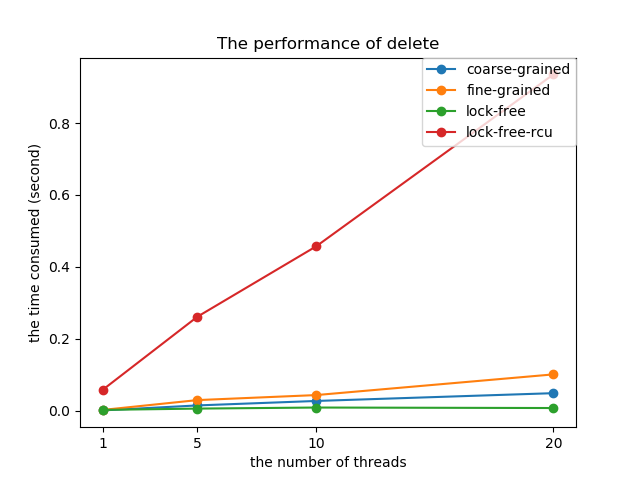
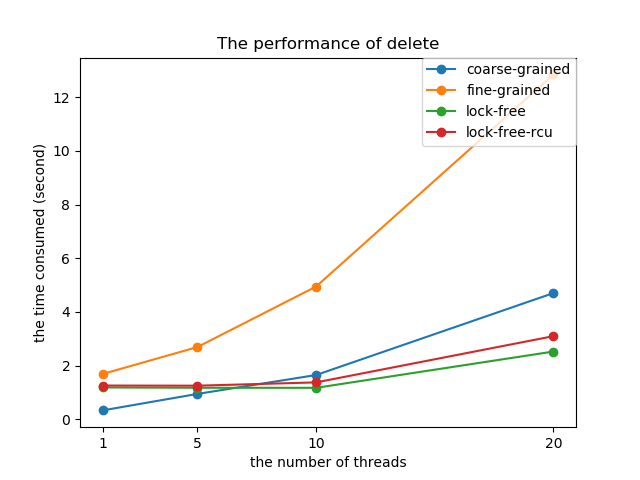
change the method of delete performance test

diff --git a/list/result_report/pic.py b/list/result_report/pic.py
@@ -12,21 +12,21 @@ x = [1, 5, 10, 20]
 #fname = 'Add_to_list_performance.png'
 
 # delete performance
-#coarse = [0.001204, 0.01505, 0.02744, 0.049104]
-#fine = [0.002461, 0.029858, 0.043798, 0.101315]
-#lock_free = [0.002609, 0.006219, 0.009167, 0.007794]
-#lock_free_rcu = [0.058134, 0.261741, 0.457155, 0.935205]
-#title = 'The performance of delete'
-#fname = 'Delete_to_list_performance.png'
+coarse = [0.332658, 0.946826, 1.65139, 4.7045]
+fine = [1.68914, 2.69389, 4.9484, 12.8524]
+lock_free = [1.1877, 1.17583, 1.17385, 2.52614]
+lock_free_rcu = [1.25902, 1.25339, 1.3765, 3.09896]
+title = 'The performance of delete'
+fname = 'Delete_to_list_performance.png'
 
 # hybird performance
-x = [5, 10, 15]
-coarse = [0.4399, 0.9230, 1.2607]
-fine = [0.4334, 1.0120, 1.6584]
-lock_free = [0.2863, 0.3872, 0.4797]
-lock_free_rcu = [0.2906, 0.3610, 0.4648]
-title = 'The performance of mixed operation'
-fname = 'mixed_op_to_list_performance.png'
+#x = [5, 10, 15]
+#coarse = [0.4399, 0.9230, 1.2607]
+#fine = [0.4334, 1.0120, 1.6584]
+#lock_free = [0.2863, 0.3872, 0.4797]
+#lock_free_rcu = [0.2906, 0.3610, 0.4648]
+#title = 'The performance of mixed operation'
+#fname = 'mixed_op_to_list_performance.png'
 
 plt.plot(x, coarse, marker='o', label='coarse-grained')
 plt.plot(x, fine, marker='o', label='fine-grained')

diff --git a/list/coarse_grained_lock_list/coarse_lock_list_test.cpp b/list/coarse_grained_lock_list/coarse_lock_list_test.cpp
@@ -325,7 +325,7 @@ void Test_performance_rm(const int n_thread) {
     }
 
     pthread_t* tid = new pthread_t[n_thread];
-    ThreadArgv argv = ThreadArgv(&l, 1, 10000);
+    ThreadArgv argv = ThreadArgv(&l, 10000, 1);
 
     timeval begin;
     timeval end;

diff --git a/list/fine_grained_lock_list/fine_grained_lock_list_test.cpp b/list/fine_grained_lock_list/fine_grained_lock_list_test.cpp
@@ -324,7 +324,7 @@ void Test_performance_rm(const int n_thread) {
     }
 
     pthread_t* tid = new pthread_t[n_thread];
-    ThreadArgv argv = ThreadArgv(&l, 1, 10000);
+    ThreadArgv argv = ThreadArgv(&l, 10000, 1);
 
     timeval begin;
     timeval end;

diff --git a/list/lock_free_list/lock_free_list_test.cpp b/list/lock_free_list/lock_free_list_test.cpp
@@ -338,7 +338,7 @@ void Test_performance_rm(const int n_thread) {
     }
 
     pthread_t* tid = new pthread_t[n_thread];
-    ThreadArgv argv = ThreadArgv(&l, 1, 10000);
+    ThreadArgv argv = ThreadArgv(&l, 10000, 1);
 
     timeval begin;
     timeval end;

diff --git a/list/lock_free_rcu_list/lock_free_list_test.cpp b/list/lock_free_rcu_list/lock_free_list_test.cpp
@@ -338,7 +338,7 @@ void Test_performance_rm(const int n_thread) {
     }
 
     pthread_t* tid = new pthread_t[n_thread];
-    ThreadArgv argv = ThreadArgv(&l, 1, 10000);
+    ThreadArgv argv = ThreadArgv(&l, 10000, 1);
 
     timeval begin;
     timeval end;

diff --git a/README.md b/README.md
@@ -1,25 +1,19 @@
 Lock-Free List
 --------------
 
-## 背景
-该项目对比了*不同的加锁方式*对性能的影响，数据结构采用*链表实现的集合（Set）*，支持插入，删除，查询三种操作。<br>
-加锁方式包括：<br>
-  * [x] 粗力度锁（coarse_grained_lock_list）
-    - 任何一次操作前，使用Mutex进行保护，操作结束，释放Mutex。相当于*并发操作串行化*。
-  * [x] 细力度锁（fine_grained_lock_list）
-    - 在遍历list时，仅对*访问节点*和*其前趋节点*使用Mutex保护。
-  * [x] 无锁（lock_free_list）
-    - 用原子操作更改指针
-  * [x] 无锁 + 垃圾回收（lock_free_rcu_list）
-    - 原子操作删除的节点，需要进行内存释放（垃圾回收），在对比了引用计数和批量回收两种方法后，使用批量回收方式
+对比了单机多核环境下，支持多线程操作的数据结构，采用**不同的同步方式**，对性能的影响。数据结构采用**有序链表实现的集合**，支持插入，删除，查询，它们均是线程安全的。对比了以下同步方式：<br>
+  * 粗力度锁（coarse_grained lock）
+  * 细力度锁（fine_grained lock）
+  * 无锁（lock_free）
+  * 无锁 + 垃圾回收（lock_free + rcu）
 
 ## 效果对比
 #### 实验机器配置
-8核心，支持8个线程，32GB内存
+8核，支持8线程
 
 #### 添加操作
 ![The Performance of Add](https://github.com/alwaysR9/lock_free_ds/blob/master/list/result_report/Add_to_list_performance.png)<br>
-链表初始化为空，开启多线程，每个线程插入10000个互异元素，实验结果：<br>
+**链表初始化为空，开启多线程，每个线程插入10000个互异元素。**<br>
 随着线程数量增加，无锁（lock-free, lock-free-rcu）耗时变化不大（scaling能力最强）; 粗粒度锁(coarse-grained)耗时与线程数量成正比; 虽然细粒度锁(fine-grained)的并发程度明显高于粗粒度锁（细粒度锁CPU使用率约400%，粗粒度锁CPU使用率约100%），但是细粒度锁耗时超过粗粒度锁（频繁的加锁，解锁导致）。<br>
 #### 删除操作
 ![The Performance of Delete](https://github.com/alwaysR9/lock_free_ds/blob/master/list/result_report/Delete_to_list_performance.png)<br>
